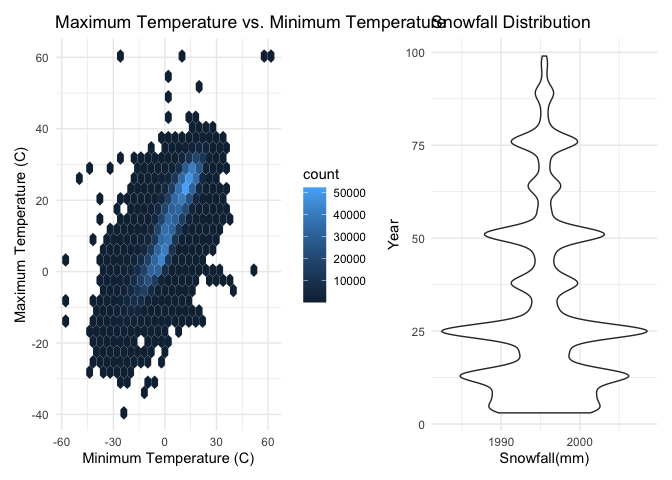
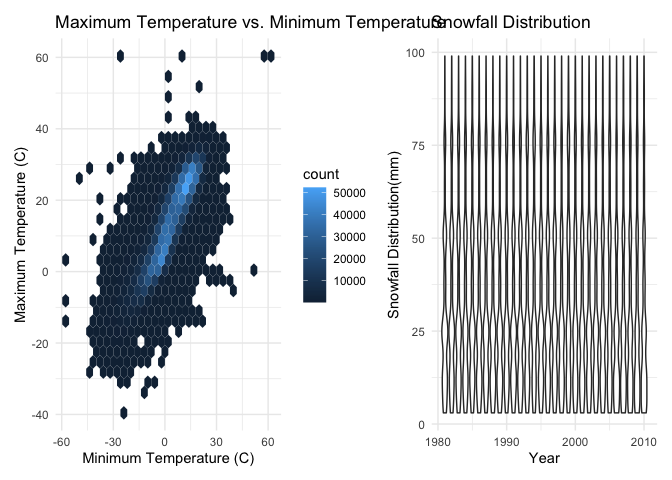
Problem 3 - plot descriptions

diff --git a/p8105_hw3_als2377.md b/p8105_hw3_als2377.md
@@ -8,14 +8,14 @@ This is my solution for Homework 3.
 library(tidyverse)
 ```
 
-    ## ── Attaching packages ──────────────────────────────────────── tidyverse 1.3.0 ──
+    ## ── Attaching packages ───────────── tidyverse 1.3.0 ──
 
     ## ✓ ggplot2 3.3.2     ✓ purrr   0.3.4
     ## ✓ tibble  3.0.3     ✓ dplyr   1.0.2
     ## ✓ tidyr   1.1.2     ✓ stringr 1.4.0
     ## ✓ readr   1.3.1     ✓ forcats 0.5.0
 
-    ## ── Conflicts ─────────────────────────────────────────── tidyverse_conflicts() ──
+    ## ── Conflicts ──────────────── tidyverse_conflicts() ──
     ## x dplyr::filter() masks stats::filter()
     ## x dplyr::lag()    masks stats::lag()
 
@@ -275,14 +275,14 @@ ggplot(tmax_weather, aes(x = year, y = mean_tmax)) + geom_point() + facet_grid(~
 
 ![](p8105_hw3_als2377_files/figure-gfm/unnamed-chunk-12-1.png)<!-- -->
 
-From these plots we can see that there is more variability in average
+From these plots, we can see that there is more variability in average
 maximum temperature during the month of January as compared to July. The
-average maximum temperature for July in about 25 degrees Celsius higher
+average maximum temperature for July is about 25 degrees Celsius higher
 than that of January. We can see a few outliers, including a maximum
 temperature of 14 degrees Celsius in July of 1998 and a maximum
 temperature of about 4 degrees Celsius in January of 1982.
 
-Plot tmax vs tmin.
+Plot tmax vs tmin and snowfall distribution.
 
 ``` r
 p3_plot_2 = 
@@ -297,12 +297,12 @@ weather_df %>%
 p3_plot_3 = 
   weather_df %>% 
   filter(snow > 0 & snow < 100) %>% 
-  ggplot(aes(x = year, y = snow)) +
-  geom_violin() + 
+  ggplot(aes(x = year, y = snow, group = year)) +
+  geom_violin() +
   labs(
     title = "Snowfall Distribution", 
-    x = "Snowfall(mm)", 
-    y = "Year")
+    x = "Year", 
+    y = "Snowfall Distribution(mm)")
 
 (p3_plot_2 + p3_plot_3)
 ```
@@ -310,3 +310,12 @@ p3_plot_3 =
     ## Warning: Removed 1136276 rows containing non-finite values (stat_binhex).
 
 ![](p8105_hw3_als2377_files/figure-gfm/unnamed-chunk-13-1.png)<!-- -->
+
+The Maximum Temperature vs. Minimum Temperature plot shows a pattern in
+which maximum temperature temperature as minimum temperature increases.
+There are several outliers, notably a couple data points that represent
+a minimum and maximum temperature of 60 degrees Celsius. We the most
+observations to be concentrated between 0 and 30 degrees celsius.
+
+The Snowfall Distribution plot indicates a slight increase in median
+rainfall from 1980 to 1995 and then a decrease from 1995 to 2010.
